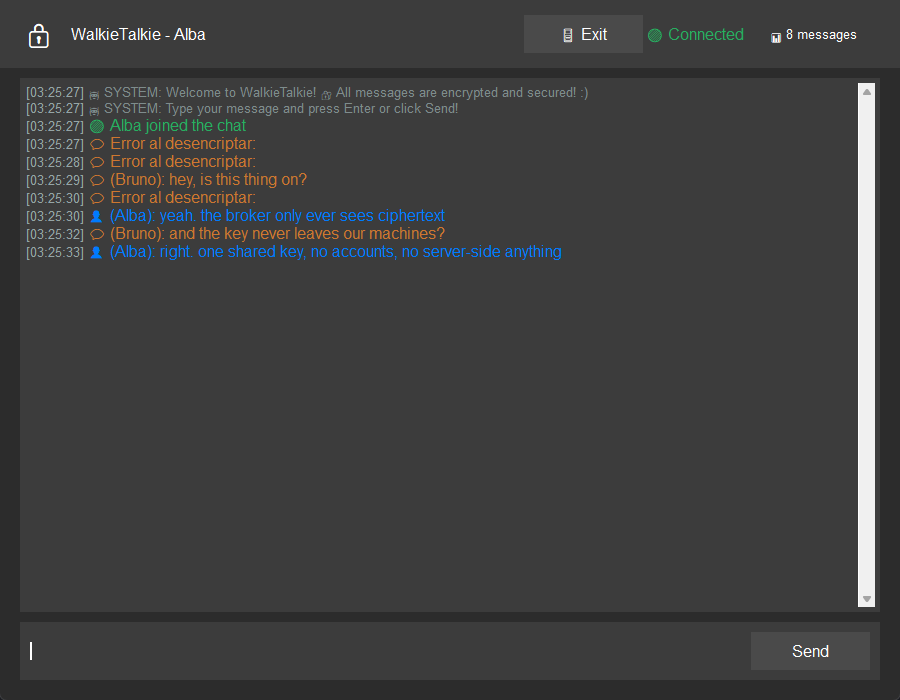
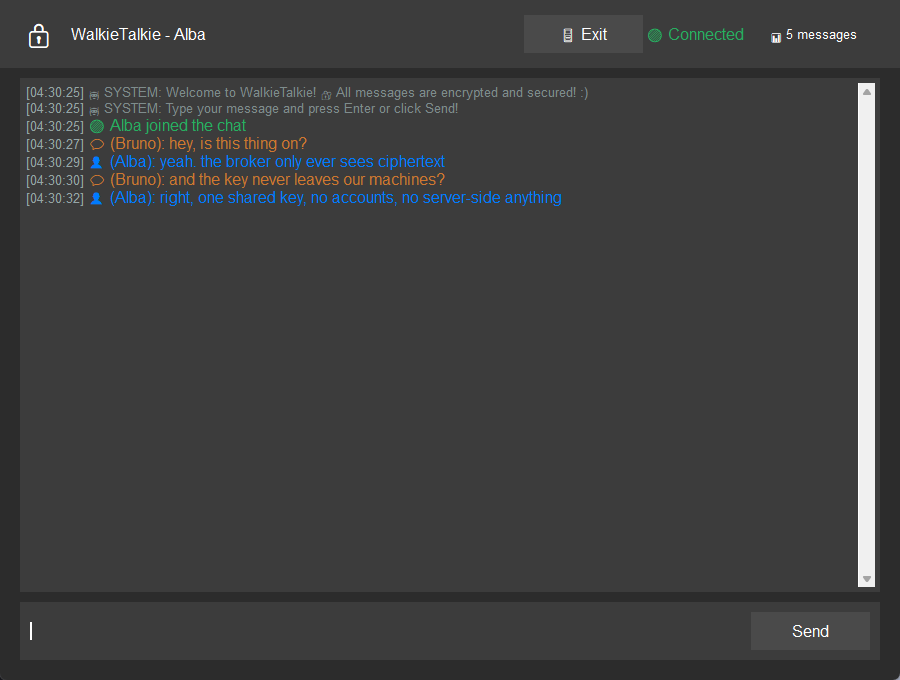
Handle foreign-key messages gracefully instead of printing decrypt errors
A payload published to the topic with a different key (or garbage) used to be
rendered as a chat line reading 'Error al desencriptar: ...'. decrypt_message_with_key
now raises DecryptionError; MqttClient shows a one-time system notice and drops the
rest. Re-captured the screenshots and added one showing the notice.

diff --git a/mqtt_client.py b/mqtt_client.py
@@ -3,7 +3,16 @@ import time
 
 import paho.mqtt.client as mqtt
 
-from encryption import encrypt_message, decrypt_message_with_key, get_fernet_instance
+from encryption import (
+    encrypt_message,
+    decrypt_message_with_key,
+    get_fernet_instance,
+    DecryptionError,
+)
+
+# La GUI reconoce este marcador y lo pinta como aviso del sistema en vez de como
+# un mensaje de otra persona.
+FOREIGN_KEY_NOTICE = "__system__:foreign_key"
 
 # El broker por defecto es un Mosquitto local. Se puede apuntar a otro host con
 # la variable de entorno MQTT_BROKER (o MQTT_PORT). No hay ningun broker publico
@@ -30,6 +39,7 @@ class MqttClient:
         self.message_callback = None
         self.topic = topic
         self.fernet = get_fernet_instance(encryption_key)
+        self._warned_foreign_key = False
 
     def _on_connect(self, client, userdata, flags, reason_code, properties):
         if reason_code == 0:
@@ -41,13 +51,25 @@ class MqttClient:
     def _on_message(self, client, userdata, msg):
         try:
             encrypted_payload = msg.payload.decode()
-            decrypted_message = decrypt_message_with_key(encrypted_payload, self.fernet)
-            if self.message_callback:
-                self.message_callback(decrypted_message)
-            else:
-                print(f"Mensaje recibido: {decrypted_message}")
         except Exception as e:
-            print(f"Error al procesar mensaje: {e}")
+            print(f"Payload no decodificable, ignorado: {e}")
+            return
+
+        try:
+            decrypted_message = decrypt_message_with_key(encrypted_payload, self.fernet)
+        except DecryptionError:
+            # Alguien publica en este tópico con otra clave (o manda basura).
+            # No es un mensaje del chat: se avisa una sola vez y se ignora el
+            # resto, en lugar de llenar la ventana de errores.
+            if not self._warned_foreign_key and self.message_callback:
+                self._warned_foreign_key = True
+                self.message_callback(FOREIGN_KEY_NOTICE)
+            return
+
+        if self.message_callback:
+            self.message_callback(decrypted_message)
+        else:
+            print(f"Mensaje recibido: {decrypted_message}")
 
     def _on_disconnect(self, client, userdata, flags, reason_code, properties):
         print(f"Desconectado con código de resultado {reason_code}")

diff --git a/encryption.py b/encryption.py
@@ -4,6 +4,12 @@ from cryptography.hazmat.primitives import hashes
 from cryptography.hazmat.primitives.kdf.pbkdf2 import PBKDF2HMAC
 from cryptography.hazmat.backends import default_backend
 
+
+class DecryptionError(Exception):
+    """El payload no se pudo descifrar con la clave actual: normalmente porque
+    alguien está publicando en el mismo tópico con otra clave, o porque no es un
+    token Fernet."""
+
 def get_fernet_instance(key_string: str) -> Fernet:
     """Retorna una instancia de Fernet a partir de una clave en string."""
     if not key_string:
@@ -35,12 +41,17 @@ def encrypt_message(message: str, fernet_instance: Fernet) -> str:
     return encrypted_bytes.decode() # Devuelve la cadena en base64
 
 def decrypt_message_with_key(encrypted_message: str, fernet_instance: Fernet) -> str:
-    """Desencripta un mensaje usando una instancia de Fernet."""
+    """Desencripta un mensaje usando una instancia de Fernet.
+
+    Lanza DecryptionError si el token no cuadra con la clave. Antes esto
+    devolvía la cadena "Error al desencriptar: ..." y la GUI la pintaba como un
+    mensaje más del chat; ahora el llamador decide qué hacer (ver
+    MqttClient._on_message)."""
     try:
         decrypted_bytes = fernet_instance.decrypt(encrypted_message.encode())
         return decrypted_bytes.decode()
     except Exception as e:
-        return f"Error al desencriptar: {e}"
+        raise DecryptionError(str(e)) from e
 
 # Ejemplo de uso (para pruebas internas)
 if __name__ == "__main__":

diff --git a/app.py b/app.py
@@ -2,7 +2,7 @@ import tkinter as tk
 from tkinter import ttk, scrolledtext, messagebox, font
 import threading
 import time
-from mqtt_client import MqttClient
+from mqtt_client import MqttClient, FOREIGN_KEY_NOTICE
 from datetime import datetime
 import re
 import random
@@ -445,11 +445,17 @@ class ChatGUI:
     
     def display_message(self, message):
         """Mostrar mensaje recibido con formato mejorado"""
+        if message == FOREIGN_KEY_NOTICE:
+            self.root.after(0, lambda: self.add_system_message(
+                "Someone is publishing on this topic with a different key. "
+                "Those messages can't be read, so they're being ignored."))
+            return
+
         def update_gui():
             timestamp = datetime.now().strftime("%H:%M:%S")
             self.messages_text.config(state=tk.NORMAL)
             self.messages_text.insert(tk.END, f"[{timestamp}] ", "timestamp")
-            
+
             # Determinar tipo de mensaje y aplicar formato
             if "joined the chat" in message.lower():
                 self.messages_text.insert(tk.END, f"{message}\n", "join")

diff --git a/tests/test_encryption.py b/tests/test_encryption.py
@@ -3,12 +3,14 @@ import sys
 
 sys.path.insert(0, os.path.dirname(os.path.dirname(os.path.abspath(__file__))))
 
+import pytest
 from cryptography.fernet import Fernet
 
 from encryption import (
     get_fernet_instance,
     encrypt_message,
     decrypt_message_with_key,
+    DecryptionError,
 )
 
 
@@ -32,7 +34,14 @@ def test_wrong_key_cannot_decrypt():
     good = get_fernet_instance(Fernet.generate_key().decode())
     bad = get_fernet_instance(Fernet.generate_key().decode())
     token = encrypt_message("secreto", good)
-    assert decrypt_message_with_key(token, bad).startswith("Error al desencriptar")
+    with pytest.raises(DecryptionError):
+        decrypt_message_with_key(token, bad)
+
+
+def test_garbage_payload_raises():
+    f = get_fernet_instance(Fernet.generate_key().decode())
+    with pytest.raises(DecryptionError):
+        decrypt_message_with_key("esto-no-es-un-token", f)
 
 
 def test_empty_key_rejected():

diff --git a/README.md b/README.md
@@ -12,6 +12,8 @@ The "what it does not protect" section below is the honest part.
 
 ![Two clients talking on one topic against a local broker; own messages in blue, the other person's in orange](docs/screenshots/chat.png)
 
+![A third client on the same topic with a different key: the app can't read those messages, says so once, and drops them instead of showing broken text](docs/screenshots/foreign-key.png)
+
 ## How it works
 
 Everyone who wants to talk joins the same MQTT topic and types the same key.
@@ -27,6 +29,10 @@ never has the key.
 - Key handling: paste a Fernet key, or press *Generate* to get one and share it
   with the other people out of band. If you type a plain phrase instead, the app
   runs it through PBKDF2-HMAC-SHA256 (600k iterations, fixed salt) to get a key.
+- Wrong key on the topic: MQTT topics are open, so anyone can publish to the one
+  you are using. If their payload does not decrypt with your key the app prints a
+  one-time system notice and ignores the rest, rather than rendering the failure
+  as a message.
 
 ## What it does not protect
 

diff --git a/docs/ARCHITECTURE.md b/docs/ARCHITECTURE.md
@@ -33,6 +33,11 @@ broker delivers ciphertext on the subscribed topic
   -> Tkinter text widget, tagged by message type
 ```
 
+If `decrypt_message_with_key` raises `DecryptionError` (a payload published to the
+topic with a different key, or plain garbage), `_on_message` sends a single
+`FOREIGN_KEY_NOTICE` through the callback the first time it happens and drops
+every later one, so the chat window never shows a decryption failure as a line.
+
 The MQTT network loop runs on a background thread (`loop_start`). `display_message`
 marshals back onto the Tk main thread with `root.after(0, ...)`.
 
